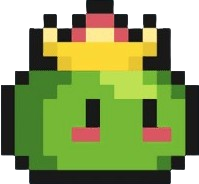
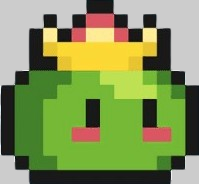
Change picture

diff --git a/style.css b/style.css
@@ -34,7 +34,7 @@ td {
 }
 
 .player {
-  background: url('images/player-Photoroom.png') center/cover no-repeat;
+  background: url('images/player.png') center/cover no-repeat;
   color: transparent;
 }
 
